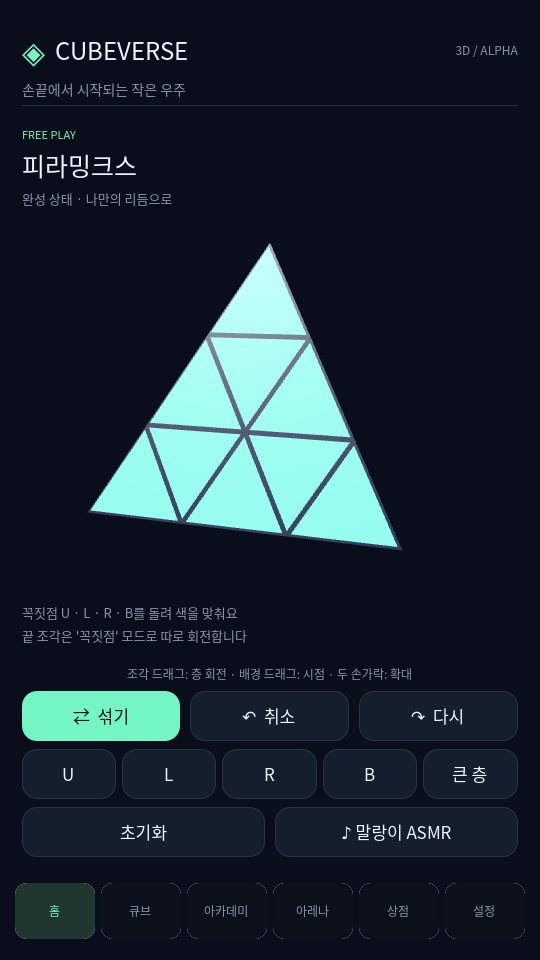
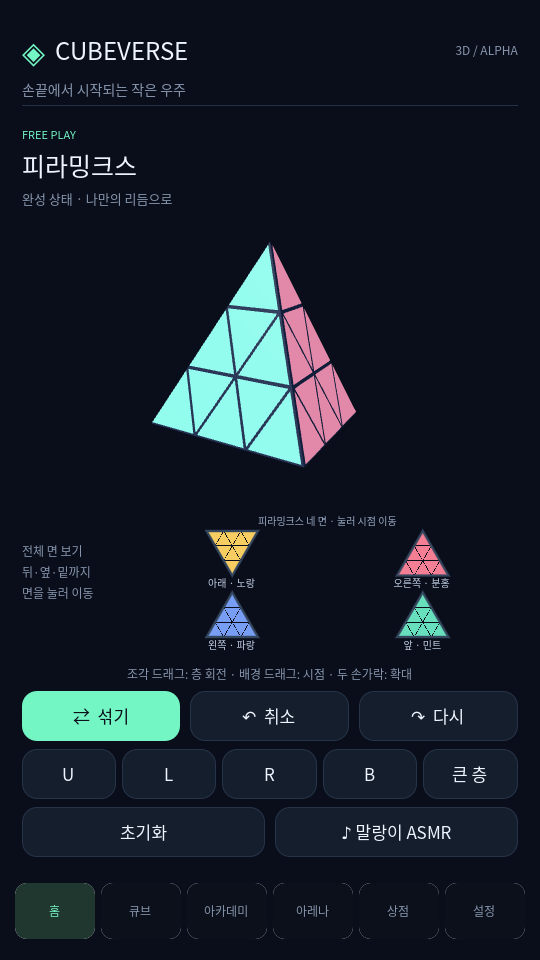
docs: publish verified 0.2 release evidence and updated previews

Changed region(s): [[0.1481, 0.25, 0.8296, 0.6875], [0.0296, 0.5625, 0.1778, 0.6875]]

diff --git a/PROGRESS.md b/PROGRESS.md
@@ -24,10 +24,10 @@
 | 피라밍크스 | 2,490개 검사 통과 · 상태·뷰·학습 |
 | 실제 GUI 터치 통합 | 92개·실패 0 · 미니맵의 에뮬레이션 마우스 선행 중복 수정 확인 |
 | 0.2.0 Web/APK | 전체 파이프라인·내보내기·APK 서명/내용 검증 통과 · `build/reports/final-manifest.json` |
-| GitHub | [저장소](https://github.com/wnstn8879/cubeverse-3d) 접근·기존 버전 푸시 완료 |
-| GitHub Actions | [첫 실행](https://github.com/wnstn8879/cubeverse-3d/actions/runs/43566780587)의 SDK 설치 오류 확인·워크플로 수정, 새 실행 대기 |
-| GitHub Pages | 설정 변경 API 403 · 사용자의 Source → GitHub Actions 설정 확인 필요 |
-| Sites | 기존 0.1.0 비공개 게시본 유지 · 0.2.0 교체 대기 |
+| GitHub | [저장소](https://github.com/wnstn8879/cubeverse-3d)에 0.2.0 기능 커밋 `9716165` 저장·CI 통과 |
+| GitHub Actions | [0.2.0 기능 브랜치 실행](https://github.com/wnstn8879/cubeverse-3d/actions/runs/43674662634) 성공 · 전체 검사·Web/APK·Artifacts |
+| GitHub Pages | main 성공 빌드의 자동 설정·배포 확인 대기 |
+| Sites | 0.2.0 비공개 웹·APK 다운로드·상태 페이지 게시 성공 |
 | 실기기 | Android 설치·청감·진동·60FPS 미검증 |
 
 모듈 검사와 전체 앱·터치·최종 빌드를 모두 통과했습니다. 최종 빌드 manifest 생성 시각은 `2026-11-15T03:56:11.303051+00:00`이며, 원격 게시와 실제 기기 검증은 별도로 확인합니다. 실패한 항목을 완료로 표시하지 않습니다. 학습 과정은 준비된 예제이며 임의 상태 풀이기는 미구현입니다.
@@ -36,12 +36,12 @@
 
 1. 미니맵 실제 GUI 터치 92개 통과 결과를 최종 빌드 검사에 포함하고 최신 앱·학습·저장 회귀를 확인합니다.
 2. 통과한 0.2.0 최종 빌드를 보존합니다. 리소스가 바뀌면 해당 검사와 필요한 빌드를 다시 수행합니다.
-3. 결과를 검토하고 `feature/asmr-academy-puzzles`에 커밋·푸시합니다. 검증 후 `develop`과 `main`에 반영합니다.
-4. GitHub Actions 실제 로그·Artifacts·Pages·Release 결과를 확인합니다. Pages 권한 제한은 기존 Sites 미리보기 갱신과 별개로 처리합니다.
-5. 최종 Web/APK를 기존 Sites에 게시하고 이 문서·README·TEST_REPORT의 버전·주소·커밋을 확정합니다.
+3. 통과한 기능 브랜치를 `develop`과 `main`에 반영하고 `v0.2.0-alpha` 태그 빌드를 확인합니다.
+4. 기능 브랜치 CI·Artifacts는 통과했습니다. main Pages와 태그 Release 실제 결과를 추가 확인합니다.
+5. 0.2.0 Sites 게시를 완료했습니다. 아래 ID·기능 커밋·산출물 해시를 기준으로 다음 수정을 이어갑니다.
 6. Android 실제 기기에서 설치·멀티터치·강제 종료 후 복원·청감·햅틱·성능을 확인합니다.
 
-## 환경·기존 게시 인수인계
+## 환경·현재 게시 인수인계
 
 - 편집 프로젝트: `/workspace/cubeverse-3d`
 - GitHub: https://github.com/wnstn8879/cubeverse-3d
@@ -49,8 +49,10 @@
 - APK 페이지: https://cubeverse-3d-play.angksehdfur2468.chatgpt.site/downloads.html
 - 게시 현황: https://cubeverse-3d-play.angksehdfur2468.chatgpt.site/status.html
 - Sites project_id: `appgprj_6af5d70449908191b003fe9ace1bc88e`
-- 기존 0.1.0 성공 deployment_id: `appgdep_6af5dac514bc8191ac9027fe9afce51c`
-- 기존 Sites 소스 커밋: `3170b31c1b32dbf14acd6a30298ca61fc54b4722`
+- 0.2.0 성공 deployment_id: `appgdep_6af92e958b6c819188a60f133a29c482`
+- 0.2.0 Sites 소스 커밋: `761b4627b7bbb9a636f2d8cb46a38558c8af8c9b`
+- 기능 기준 커밋: `9716165c7910906d96362df352a6ffeeb5108385`
+- GitHub CI 성공 실행: `43674662634`
 - 배포 전용 체크아웃: `/workspace/sites/cubeverse-play`
 
 Sites 수정 시 기존 ID와 비공개 접근을 유지합니다. 단기 자격증명은 출력·파일·Git에 저장하지 않습니다. 호스팅 자산은 18MiB 조각으로 재구성하며, 소스 전송은 1회 64MiB 한도 이하의 여러 커밋으로 나눕니다. 전체 제품 완성도를 임의 백분율로 표시하지 않습니다.

diff --git a/DEPLOYMENT.md b/DEPLOYMENT.md
@@ -61,7 +61,7 @@ python3 -m http.server 8000 --directory build/web
 5. `main` 성공 빌드를 GitHub Pages에 배포. PR에는 배포 권한을 제공하지 않음.
 6. `v*` 태그가 성공한 경우 테스트 APK를 GitHub prerelease에 첨부.
 
-저장소 관리자는 최초 한 번 **Settings → Pages → Source → GitHub Actions**를 활성화해야 한다. `github-pages` 환경의 승인 규칙이나 조직 정책이 있으면 그 규칙을 따른다. 현재 연결에 관리 권한이 제공되면 이 설정은 에이전트가 적용할 수 있다.
+Pages 작업은 `actions/configure-pages@v5`의 `enablement: true`로 최초 활성화를 시도합니다. 저장소 정책으로 거절되면 관리자가 **Settings → Pages → Source → GitHub Actions**를 선택해야 합니다. `github-pages` 환경의 승인 규칙이나 조직 정책이 있으면 그 규칙을 따른다. 현재 연결에 관리 권한이 제공되면 이 설정은 에이전트가 적용할 수 있다.
 
 Actions 성공 여부는 실제 실행 화면에서 확인해야 한다. 워크플로 파일 작성만으로 성공 배지를 표시하지 않는다. 테스트가 실패한 커밋은 `main`에 병합하지 않는다. 배포 실패 시 `pages` 작업 로그와 빌드의 `build-reports-<SHA>` 아티팩트를 확인한다.
 
@@ -85,8 +85,10 @@ adb install -r build/android/CubeVerse-3D-debug.apk
 - 테스트 APK: https://cubeverse-3d-play.angksehdfur2468.chatgpt.site/downloads.html
 - 실제 빌드 현황: https://cubeverse-3d-play.angksehdfur2468.chatgpt.site/status.html
 
-이 주소의 기존 0.1.0 Sites 게시 결과 `succeeded`를 확인했습니다. 0.2.0 업데이트 결과는 게시 완료 후 README·PROGRESS에 기록합니다. 본인 계정만 접근하며 공개 범위는 변경하지 않았습니다. 브라우저 조작·실기기 설치는 미검증입니다. 초기 GitHub 저장소 생성 제한 때문에 이 미리보기를 먼저 게시했습니다. 현재 GitHub 소스 저장과 이 Sites 미리보기의 게시 상태는 별도로 확인합니다.
+이 주소에 0.2.0 Sites 게시 결과 `succeeded`를 확인했습니다. 게시 ID는 `appgdep_6af92e958b6c819188a60f133a29c482`이며, 코드 기준 커밋은 `9716165c7910906d96362df352a6ffeeb5108385`입니다. 본인 계정만 접근하며 공개 범위는 변경하지 않았습니다. 브라우저 조작·실기기 설치는 미검증입니다. 초기 GitHub 저장소 생성 제한 때문에 이 미리보기를 먼저 게시했습니다. 현재 GitHub 소스 저장과 이 Sites 미리보기의 게시 상태는 별도로 확인합니다.
 
 원본 Web WASM(약36MiB)과 APK(약55MiB)를 18MiB 조각으로 전송하고 브라우저에서 원본 바이트로 재구성합니다. `tools/prepare_site.py`와 `tools/test_site.mjs`는 재구성 SHA-256·WASM 컴파일·fetch 통과를 검증합니다. APK 다운로드 페이지는 저장 전 SHA-256을 검사합니다.
 
 배포 전용 소스는 `/workspace/sites/cubeverse-play`입니다. 기본 제공 Sites 소스 헬퍼가 이 환경에 없어 `tools/publish_site_source.py`를 사용했습니다. 대상 URL·프로젝트 ID를 고정 검증하며 자격증명은 숨겨진 stdin으로만 받아 프로세스 메모리에서 사용합니다. 원격은 1회 푸시64MiB 제한이 있어 Web/APK를 별도 커밋으로 나눕니다. 다음 세션에는 Sites 스킬을 읽고 기존 project_id를 재사용하세요.
+
+기능 브랜치 원격 검증: [Actions 43674662634](https://github.com/wnstn8879/cubeverse-3d/actions/runs/43674662634)에서 0.2.0 전체 테스트·Web/APK·아티팩트 업로드가 성공했습니다. 최초 SDK 오류는 폐기된 `tools` 패키지 설치를 제거해 해결했습니다.

diff --git a/README.md b/README.md
@@ -6,15 +6,15 @@
 
 | 항목 | 확인된 상태 |
 | --- | --- |
-| 소스 저장소 | [wnstn8879/cubeverse-3d](https://github.com/wnstn8879/cubeverse-3d) · 기존 검증 버전 푸시 완료 |
-| 웹 플레이 | [비공개 웹 미리보기](https://cubeverse-3d-play.angksehdfur2468.chatgpt.site) · 현재 게시본은 0.1.0, 0.2.0 갱신 준비 중 |
-| APK 다운로드 | [테스트 APK 페이지](https://cubeverse-3d-play.angksehdfur2468.chatgpt.site/downloads.html) · 현재 게시본은 0.1.0 |
-| 자동 빌드 | [GitHub Actions](https://github.com/wnstn8879/cubeverse-3d/actions) · 첫 실행의 SDK 설치 오류 수정 후 재검증 대기 |
-| GitHub Pages | 설정 변경 API 권한이 없어 Source → GitHub Actions 활성화 확인 필요 |
-| 최신 0.2.0 | 모든 로컬 검사·Web/APK 내보내기·APK 서명 검증 통과, 원격 게시 준비 중 |
+| 소스 저장소 | [wnstn8879/cubeverse-3d](https://github.com/wnstn8879/cubeverse-3d) · 0.2.0 기능 브랜치 저장·CI 성공 |
+| 웹 플레이 | [비공개 웹 미리보기](https://cubeverse-3d-play.angksehdfur2468.chatgpt.site) · 0.2.0 비공개 게시 성공 |
+| APK 다운로드 | [테스트 APK 페이지](https://cubeverse-3d-play.angksehdfur2468.chatgpt.site/downloads.html) · 0.2.0 디버그 APK |
+| 자동 빌드 | [0.2.0 검증 실행](https://github.com/wnstn8879/cubeverse-3d/actions/runs/43674662634) · 전체 검사·Web/APK·Artifacts 성공 |
+| GitHub Pages | main 반영 후 자동 게시 확인 대기 |
+| 최신 0.2.0 | 로컬·GitHub CI 검증과 Sites 웹·APK 게시 성공 |
 | 실제 Android | 설치·기기 터치·햅틱·성능 미검증 |
 
-비공개 미리보기는 본인 ChatGPT 계정으로 접근합니다. [배포 빌드 현황](https://cubeverse-3d-play.angksehdfur2468.chatgpt.site/status.html)은 해당 게시본의 코드와 빌드 결과를 표시합니다. 저장소의 작업 버전과 게시본은 같지 않을 수 있습니다. 최종 결과는 [TEST_REPORT.md](TEST_REPORT.md)와 [DEPLOYMENT.md](DEPLOYMENT.md)를 확인하세요.
+비공개 미리보기는 본인 ChatGPT 계정으로 접근합니다. [배포 빌드 현황](https://cubeverse-3d-play.angksehdfur2468.chatgpt.site/status.html)은 해당 게시본의 코드와 빌드 결과를 표시합니다. 현재 Sites 게시본의 기능 기준 커밋은 `9716165c7910906d96362df352a6ffeeb5108385`입니다. 최종 결과는 [TEST_REPORT.md](TEST_REPORT.md)와 [DEPLOYMENT.md](DEPLOYMENT.md)를 확인하세요.
 
 ## 0.2.0에서 추가한 기능
 
@@ -34,7 +34,7 @@
 
 진짜 미러 큐브·메가밍크스·스큐브·기어·스퀘어-1·피셔·고스트의 개별 엔진, 임의 상태 풀이와 상태별 화살표, 리플레이 화면·통계, 영어 UI, 로그인·클라우드 동기화, 친구·온라인 대전·서버 검증·랭킹, 프리미엄 상품·Google Play 결제·구매 복원, 정식 서명과 Play 등록은 미구현입니다. 결제되지 않은 상품을 구매 완료로 표시하지 않습니다.
 
-검증된 0.2.0 APK는 현재 로컬 `build/android/CubeVerse-3D-debug.apk`에 있습니다. 웹 다운로드 페이지의 0.2.0 교체와 GitHub Release 주소는 게시 성공 후 확정합니다.
+검증된 0.2.0 APK는 [비공개 다운로드 페이지](https://cubeverse-3d-play.angksehdfur2468.chatgpt.site/downloads.html)와 [GitHub Actions Artifacts](https://github.com/wnstn8879/cubeverse-3d/actions/runs/43674662634)에서 받을 수 있습니다. GitHub Release는 태그 빌드 게시 확인 대기입니다. 로컬 파일은 `build/android/CubeVerse-3D-debug.apk`입니다.
 
 ## 개발 실행
 

diff --git a/CHANGELOG.md b/CHANGELOG.md
@@ -1,6 +1,6 @@
 # 변경 기록
 
-## 0.2.0 — 개발 알파 · 로컬 빌드 검증 통과
+## 0.2.0 — 개발 알파 · Web/APK 검증과 비공개 게시
 
 - 말랑이 ASMR·슬라임 스트레치·크리미 폼·물방울 젤을 추가해 무료 사운드를 10종으로 늘렸습니다.
 - 이벤트별 네 변형, 연속 반복 방지, 속도별 음색, 질감 미리 듣기와 재생 수·종료 타이머 정리를 추가했습니다.
@@ -9,7 +9,8 @@
 - 실제 120도 회전과 독립 팁을 갖춘 별도 피라밍크스 엔진·뷰·셔플·취소/다시·저장을 추가했습니다.
 - 기존 역회전 네 동작 연습을 3×3·2×2·피라밍크스의 처음부터 완성까지 준비된 학습 예제로 교체했습니다.
 - 조각·표기법·목표·관찰 지점·동작 목적, 단계별 재시작과 잘못된 동작 복원을 추가했습니다. 임의 상태 자동 풀이기는 아닙니다.
-- GitHub 저장소 연결과 기존 검증 버전 푸시를 완료했습니다. 최신 자동 빌드·Pages·Release와 Sites 갱신 결과는 검증 후 기록합니다.
+- GitHub 저장소 연결과 0.2.0 기능 브랜치 푸시를 완료했고 전체 CI·Web/APK·Artifacts가 통과했습니다.
+- 기존 비공개 Sites의 웹·APK 다운로드·빌드 상태를 0.2.0으로 갱신했습니다. main Pages와 태그 Release는 실제 결과 확인 대기입니다.
 
 엔진 1,019개·카메라 96개·앱 345개·터치 92개와 사운드·미니맵·학습·피라밍크스 검사를 통과했습니다. Web/APK 내보내기와 APK 서명·내용 검증도 통과했습니다. 실제 Android 설치·청감·햅틱·성능은 미검증입니다. 미니맵 GUI 터치 중복을 수정해 92개 검사를 통과했습니다. 최종 빌드 결과는 TEST_REPORT.md를 따릅니다.
 

diff --git a/ROADMAP.md b/ROADMAP.md
@@ -10,8 +10,9 @@
 - [x] 실제 빌드 항목과 커밋을 표시하는 상태 페이지
 - [x] 0.1.0 Web·디버그 APK 내보내기와 비공개 Sites 게시
 - [x] 0.2.0 최종 검사·Web/APK 빌드·서명 검증
-- [ ] 0.2.0 GitHub 푸시·Sites 갱신
-- [ ] GitHub Actions 실제 성공·APK Artifacts/Release 확인
+- [x] 0.2.0 기능 브랜치 GitHub 푸시·Sites 갱신
+- [x] GitHub Actions 기능 브랜치 실행·Web/APK Artifacts 성공
+- [ ] 태그 빌드와 GitHub Release 확인
 - [ ] GitHub Pages 활성화와 게시 주소 확인
 
 ## Phase 1 — NxN 조작
